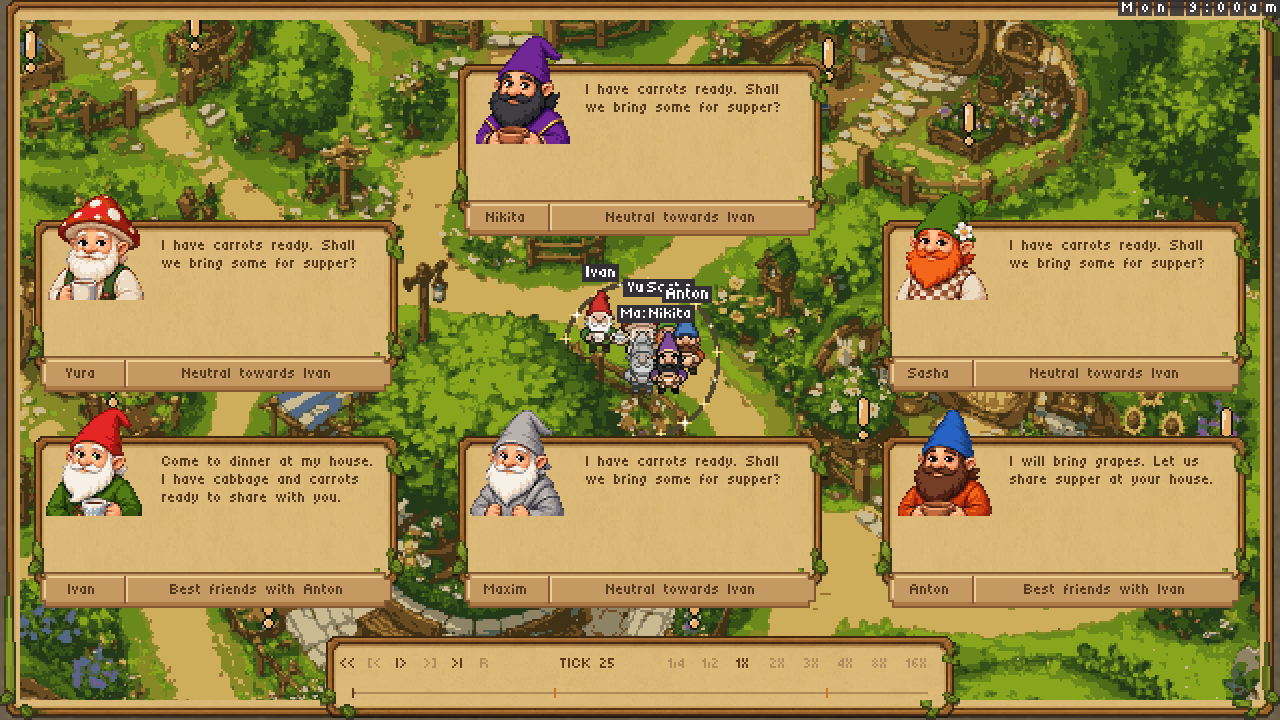
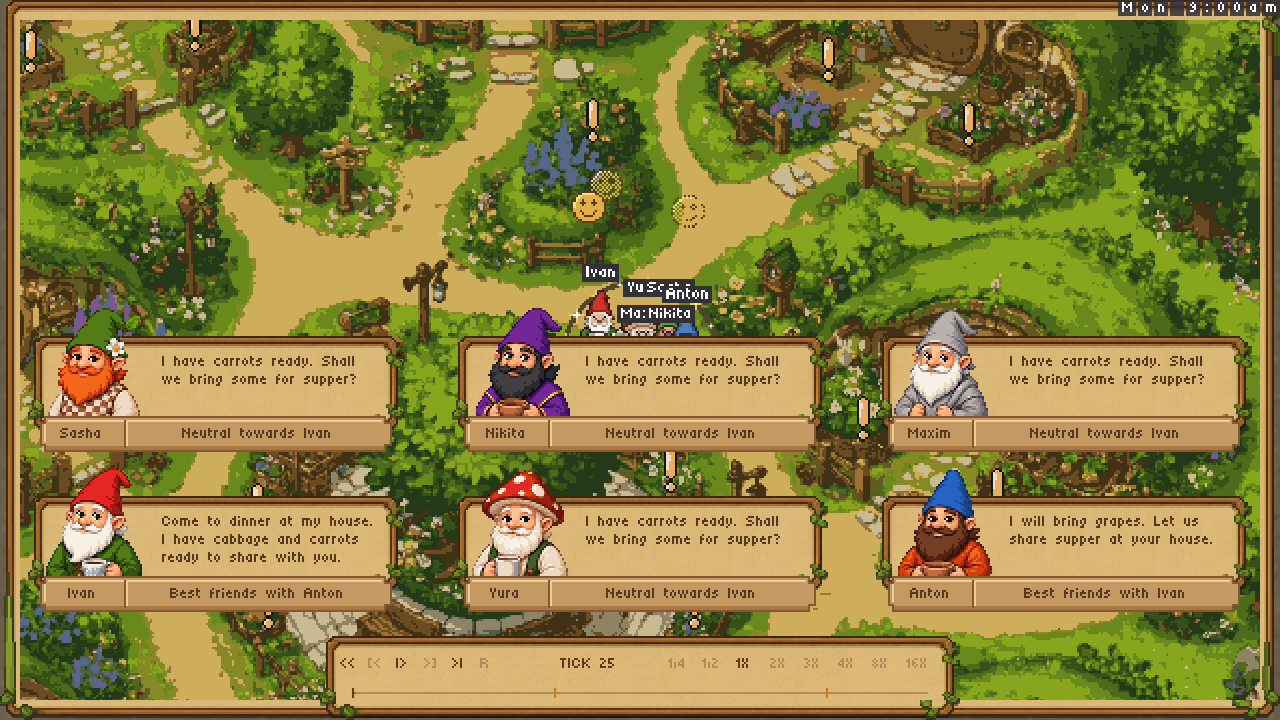
Anchor conversation cards and remove portrait bottom gap

diff --git a/docs/viewer-stability.md b/docs/viewer-stability.md
@@ -18,7 +18,10 @@ hand-drawn village, walk masks, house locations, replay format, and game rules.
   and the viewer's logo crop/resizing code have been removed.
 - Settled conversation shots show one compact card per gnome who has spoken,
   updated with their latest aired line. Portraits protrude above the parchment;
-  the bottom strip holds only name and relationship. Cards avoid each other
+  the bottom strip holds only name and relationship, directly beneath the portrait
+  with no empty gap. Cards retain screen-space slots while gnomes walk and the
+  camera drifts; later speakers do not displace existing cards. Recorded lines
+  reserve row height for the shot without revealing future dialogue. Cards avoid each other
   and the transport. Small windows show the most recent speakers that fit.
 - Dialogue portraits retain all 54×54 source pixels. Leaderboard icons use a
   uniform 2:1 reduction to 27×27 instead of the previous irregular 54→20
@@ -68,6 +71,15 @@ remain pending. All older screenshot iterations were removed from this gallery.
 
 ![Six speakers with clear transport](viewer-stability/05-six-speakers.png)
 
+### Walking and camera drift: the cards stay in place
+
+These two successive controlled frames retain the same viewer state. Ivan walks
+and the camera shifts, while both card anchors remain unchanged.
+
+![Before movement](viewer-stability/10-pinned-before.png)
+
+![After movement](viewer-stability/11-pinned-after.png)
+
 ### Circular rooms, including night
 
 ![Day room](viewer-stability/06-room-day.png)
@@ -109,7 +121,10 @@ validation covers the game and soul-player builds, unit tests, viewer stability,
 leaderboard layout, controls, routes, integration, and regeneration/playback of
 the complete scenario. New assertions check content-fit panel height, all nine
 short-window rows, exact dialogue portrait pixels, uniform thumbnail sampling,
-and absent logo sprites. Existing controls coverage includes 64 pause/speed
+and absent logo sprites. Further regressions cover stationary card anchors through
+walking, camera drift, later speakers and longer recorded turns, plus exact
+portrait-to-strip contact and all nine short cards fitting without dropping a
+speaker. Existing controls coverage includes 64 pause/speed
 combinations, rapid next clicks, seek ordering, and end/restart behavior.
 
 ```sh
@@ -127,7 +142,7 @@ tools/build_replay_viewer.sh "$PWD/out/static-replay-viewer"
 The September 10 local run used native Nim 2.2.12 and the pinned static Nim
 2.2.4/Emscripten toolchain; GitHub CI uses native Nim 2.2.10. See the PR checks
 for CI results on its current head. All local suites and both builds passed.
-A fresh native WebSocket run acknowledged all 12 play/pause trials in 24–51 ms
+The earlier `63146e5` native WebSocket run acknowledged all 12 play/pause trials in 24–51 ms
 (median 28 ms) and streamed the complete 4,500-tick recording. These are server
 response timings, not browser display latency.
 
